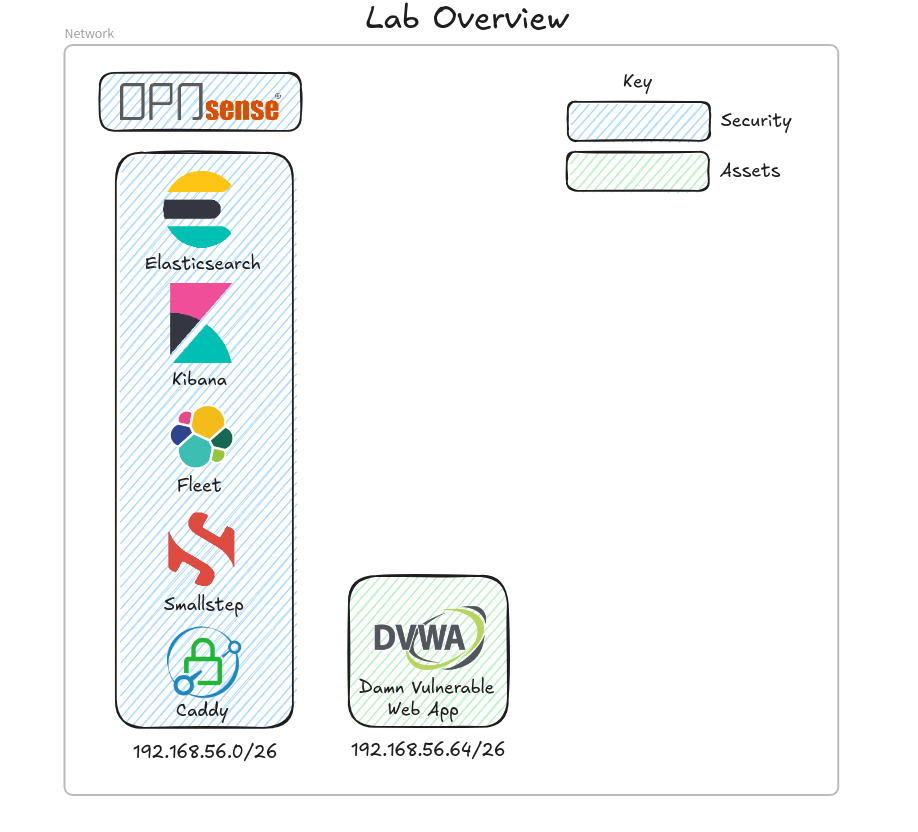
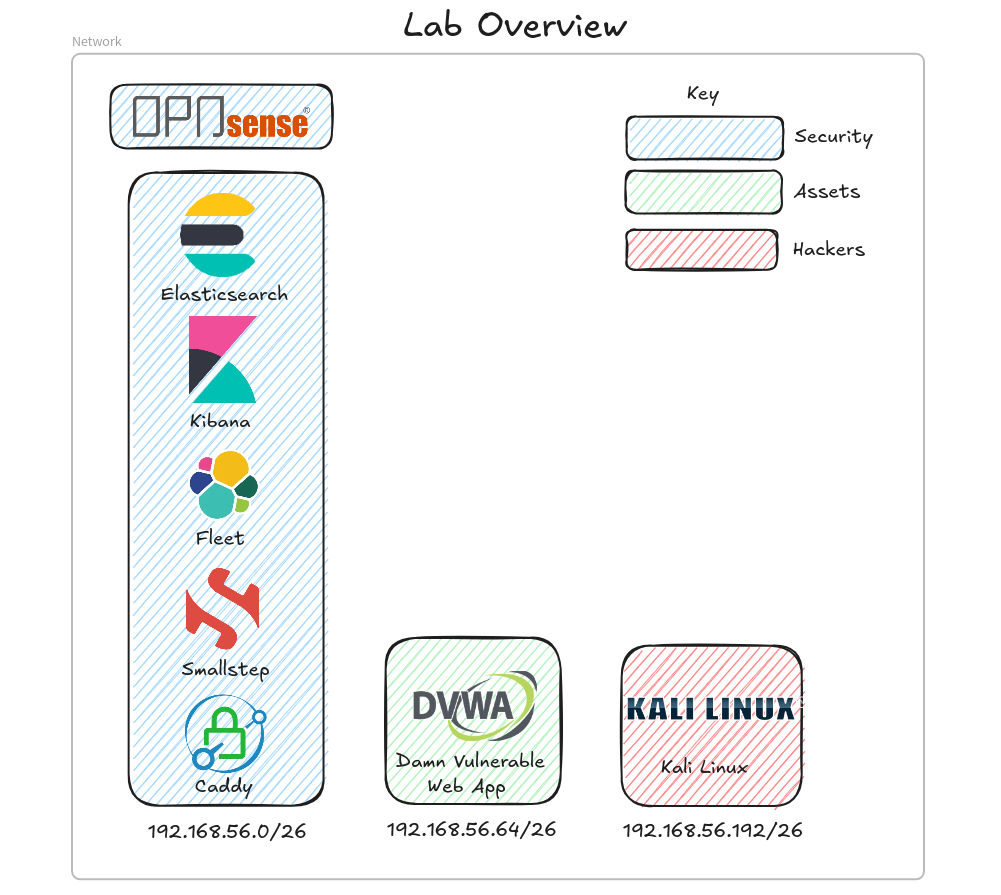
update readme for clarification

diff --git a/README.md b/README.md
@@ -3,8 +3,9 @@ Tartarus (renamed from AtomicFireFly), is designed to automate the process of de
 
 ## Requirements (host)
 ### Hardware
+**N.B.** Modern CPUs have virtual cores so if your CPU has 4 cores then it will have 8 vCPU cores. The below tabes all represent vCPU cores required by the VMs.  
 #### SIEM only
-The default deployment `vagrant up` will deploy only the Elastic SIEM and Opnsense firewall for testing.  
+The default deployment `vagrant up` will deploy only the Elastic SIEM and Opnsense firewall for testing. Can also be deployed with `HOSTS=elastic vagrant up opnsense elastic`.  
 | VM Name               | CPU Cores | Memory (MB) | Private IP     |
 |-----------------------|-----------|-------------|----------------|
 | tartarus-opnsense     | 2         | 1024        | 192.168.56.2   |
@@ -14,9 +15,59 @@ The default deployment `vagrant up` will deploy only the Elastic SIEM and Opnsen
 RAM: 9GB  
 CPU: 6
 
+##### Access SIEM
+To access you're newly created SIEM and firewall first add their DNS records to your hosts, `hosts` file  
+
+###### Windows
+Open `powershell` and run it in administrator mode (in the start bar type `powershell` and right click the icon and select run as administrator)  
+Now run this command `Add-Content 'C:\Windows\System32\Drivers\etc\hosts' "127.0.0.1 tartarus-elastic.home.arpa"` you can verify access with `Invoke-WebRequest -Uri "https://tartarus-elastic.home.arpa:5443" -SkipCertificateCheck` or just open `https://tartarus-elastic.home.arpa:5443` in your web browser.  
+
+If you want to access the Elastic guest use `vagrant ssh elastic`.
+
+###### Linux
+Open a `terminal` and type the following `sudo bash -c "echo '127.0.0.1 tartarus-elastic.home.arpa' >> /etc/hosts"` to add the DNS entry to your systems host file.  
+Verify access with a little `curl -L -k https://tartarus-elastic.home.arpa:5443` or access `https://tartarus-elastic.home.arpa:5443` in your web browser.  
+
+###### Expected Result
+**Web**  
+
+![Elastic_Access_Web](images/ElasticAccessWeb.png "Elastic access web")  
+
+**N.B.** If you see a warning about self signed certs you have two options:
+- Ignore the warning  
+- (prefered) add the `root_ca.crt` certificate to your browsers trust store. If you don't know how search for "how to add a root certificate to Chrome, Firefox, Brave, Egde..." and add the file `certs/root_ca.crt` to the trust store.  
+
+**SSH**  
+
+![Elastic_Access_SSH](images/ElasticAccessSSH.png "Elastic access SSH")  
+
+##### Access Firewall
+To access the newly created Opnsense firewall first add the DNS record to your hosts, `hosts` file  
+
+###### Windows
+Open `powershell` and run it in administrator mode (in the start bar type `powershell` and right click the icon and select run as administrator)  
+Now run this command `Add-Content 'C:\Windows\System32\Drivers\etc\hosts' "127.0.0.1 tartarus-opnsense.home.arpa"` you can verify access with `Invoke-WebRequest -Uri "https://tartarus-opnsense.home.arpa:8443" -SkipCertificateCheck` or just open `https://tartarus-opnsense.home.arpa:8443` in your web browser. N.B. you will get a self signed cert warning that will remain for the firewall due to all cert creation happening on the SIEM (which is started after the firewall).
+
+###### Linux
+Open a `terminal` and type the following `sudo bash -c "echo '127.0.0.1 tartarus-opnsense.home.arpa' >> /etc/hosts"` to add the DNS entry to your systems host file.  
+Verify access with a little `curl -L -k https://tartarus-opnsense.home.arpa:8443` or access `https://tartarus-opnsense.home.arpa:8443` in your web browser.  
+
+###### Expected Result
+**Web**  
+
+![Opnsense_Access_Web](images/OpnsenseAccessWeb.png "Opnsense Access Web")  
+
+**N.B.** If you see a warning about self signed certs you in this case you'll have to accept the warning, the firewall certs are independent of the Elastic certs.  
+
+**SSH**  
+
+![Opnsense_Access_SSH](images/OpnsenseAccessSSH.png "Opnsense Access SSH")  
+
+**N.B.** You'll need to `sudo su -` to get to the options menu.  
+
 ##### Diagram
 
-![Elastic_Diagram_1](images/elasticdiagram1.png "Example 1 Simple SIEM")
+![Elastic_Diagram_1](images/elasticdiagram1.png "Example 1 Simple SIEM")  
 
 #### SIEM + Linux
 Deploy with `HOSTS=linux vagrant up opnsense elastic linux` will deploy the SIEM, firewall and a Linux host.  
@@ -30,9 +81,16 @@ Deploy with `HOSTS=linux vagrant up opnsense elastic linux` will deploy the SIEM
 RAM: 11GB  
 CPU: 7  
 
+##### Access Linux
+Complete DNS settings from the above example.  
+
+**SSH**  
+
+![Linux_Access_SSH](images/LinuxAccessSSH.png "Linux Access SSH")  
+
 ##### Diagram
 
-![Elastic_Diagram_2](images/elasticdiagram2.png "Example 2 Simple SIEM with Linux asset")
+![Elastic_Diagram_2](images/elasticdiagram2.png "Example 2 Simple SIEM with Linux asset")  
 
 #### SIEM + Windows
 Deploy with `HOSTS=windows vagrant up opnsense elastic windows` will deploy the SIEM, firewall and a Windows host.  
@@ -40,15 +98,29 @@ Deploy with `HOSTS=windows vagrant up opnsense elastic windows` will deploy the 
 |-----------------------|-----------|-------------|----------------|
 | tartarus-opnsense     | 2         | 1024        | 192.168.56.2   |
 | tartarus-elastic      | 4         | 8192        | 192.168.56.10  |
-| tartarus-linux        | 1         | 4096        | 192.168.56.80  |
+| tartarus-windows      | 2         | 4096        | 192.168.56.80  |
 
 ##### Total
 RAM: 13GB  
-CPU: 7  
+CPU: 8  
+
+##### Access Windows
+Complete DNS settings from the top example.  
+
+**SSH**  
+
+![Windows_Access_SSH](images/WindowsAccessSSH.png "Windows Access SSH")  
+
+**RDP**  
+
+![Windows_Access_RDP](images/WindowsAccessRDP.png "Windows Access RDP")  
+
+**N.B.** You will need `xfreerdp` installed if you are running Linux `xfreerdp /u:"vagrant" /p:"vagrant" /v:127.0.0.1:53389 /size:1300x700 /cert:ignore`  
+On Windows you can use the built in RDP client.  
 
 ##### Diagram
 
-![Elastic_Diagram_3](images/elasticdiagram3.png "Example 3 Simple SIEM with Windows asset")
+![Elastic_Diagram_3](images/elasticdiagram3.png "Example 3 Simple SIEM with Windows asset")  
 
 #### SIEM + Linux + Windows
 Deploy with `HOSTS=linwin vagrant up opnsense elastic linux windows` will deploy the SIEM, firewall, Linux and Windows.  
@@ -56,33 +128,72 @@ Deploy with `HOSTS=linwin vagrant up opnsense elastic linux windows` will deploy
 |-----------------------|-----------|-------------|----------------|
 | tartarus-opnsense     | 2         | 1024        | 192.168.56.2   |
 | tartarus-elastic      | 4         | 8192        | 192.168.56.10  |
-| tartarus-linux        | 2         | 2048        | 192.168.56.70  |
-| tartarus-linux        | 1         | 4096        | 192.168.56.80  |
+| tartarus-windows      | 1         | 2048        | 192.168.56.70  |
+| tartarus-linux        | 2         | 4096        | 192.168.56.80  |
 
 ##### Total
 RAM: 15GB  
 CPU: 9  
 
+##### Access
+Follow the guides above for access to any of the guests.  
+
 ##### Diagram
 
-![Elastic_Diagram_4](images/elasticdiagram4.png "Example 4 Simple SIEM with Linux and Windows asset")
+![Elastic_Diagram_4](images/elasticdiagram4.png "Example 4 Simple SIEM with Linux and Windows asset")  
 
-#### SIEM + Damn Vulnerable Web Application
-Deploy with `HOSTS=dvwa vagrant up opnsense elastic dvwa` will deploy the SEIM, firewall and the DVWA.
-Although we expose the default port `80` that the DVWA is served on to the host machine at `http://127.0.0.1:8080` it's advised to deploy the Kali host to attack the DVWA as it will have more of the tools you'll need pre-installed.
+#### SIEM + Damn Vulnerable Web Application + Kali
+Deploy with `HOSTS=dvwa vagrant up opnsense elastic dvwa kali` will deploy the SEIM, firewall, the DVWA and Kali.
+Although we expose the default port `80` that the DVWA is served on to the host machine at `http://127.0.0.1:8180` it's advised to deploy the Kali host to attack the DVWA as it will have more of the tools you'll need pre-installed.
 | VM Name               | CPU Cores | Memory (MB) | Private IP     |
 |-----------------------|-----------|-------------|----------------|
 | tartarus-opnsense     | 2         | 1024        | 192.168.56.2   |
 | tartarus-elastic      | 4         | 8192        | 192.168.56.10  |
 | tartarus-dvwa         | 1         | 2048        | 192.168.56.71  |
+| tartarus-kali         | 4         | 8192        | 192.168.56.200 |
 
 ##### Total
-RAM: 11GB  
+**Recommended**
+RAM: 19GB  
+CPU: 11  
+
+**Passable**  
+RAM: 13GB
 CPU: 7  
+
+##### Access Kali  
+
+**GUI**  
+
+**N.B.** The Kali host has the GUI enabled so it should pop up with the GUI whenever you boot the machine.
+**N.B. 2** If 8GB of RAM is too much for your host to handle you can reduce the amount of memory Kali gets by changing the line `v.customize ["modifyvm", :id, "--memory", 8192]` near the bottom of the `Vagrantfile` to something like `v.customize ["modifyvm", :id, "--memory", 4096]` this will reduce the RAM by half, anything lower and the machine may become unstable. You can do the same for Elastic down to 6GB although it is not recommended! From `v.customize ["modifyvm", :id, "--memory", 8192]` to `v.customize ["modifyvm", :id, "--memory", 6144]` in the elastic part of the `Vagrantfile`. The same can be done to the CPUs each VM gets.  
+
+![Kali_Access_GUI](images/KaliAccessGUI.png "Kali Access GUI")  
+
+**N.B.** Login with:  
+`username: vagrant`  
+`password: vagrant`  
+You may need to login twice.  
+
+**SSH**  
+
+![Kali_Access_SSH](images/KaliAccessSSH.png "Kali Access SSH")  
+
+##### Access Damn Vulnerable Web Application  
+
+**Web**  
+
+**N.B.** It is recommended to access the DVWA from within the Kali VM!  
+
+Fist add the DNS entry to the Kali VM's hosts file with `sudo bash -c "echo '192.168.56.71 tartarus-dvwa.home.arpa' >> /etc/hosts"` sudo password is `vagrant`  
+
+Open firefox and browse to `http://tartarus-dvwa.home.arpa/DVWA`  
+
+![DVWA_Access_Web](images/DVWAAccessWeb.png "DVWA Access Web")  
 
 ##### Diagram
 
-![Elastic_Diagram_5](images/elasticdiagram5.png "Example 5 Simple SIEM with DVWA")
+![Elastic_Diagram_5](images/elasticdiagram5.png "Example 5 Simple SIEM with DVWA")  
 
 ### Software
 [VirtualBox](https://www.virtualbox.org/wiki/Downloads)  
@@ -97,7 +208,7 @@ CPU: 7
 | tartarus-linux        | bento/rockylinux-8.7                 | 1         | 2048        | 192.168.56.70  | Elastic Agent                                                     |
 | tartarus-dvwa         | bento/ubuntu                         | 1         | 2048        | 192.168.56.71  | Elastic Agent, DVWA                                               |
 | tartarus-windows      | gusztavvargadr/windows-10-21h2-enterprise | 2    | 4096        | 192.168.56.80  | Elastic Agent, Sysmon, Atomic Red Team                            |
-| tartarus-kali         | kalilinux/rolling                    | 2         | 4096        | 192.168.56.200 |                                                                   |
+| tartarus-kali         | kalilinux/rolling                    | 4         | 8192        | 192.168.56.200 |                                                                   |
 
 
 ### IP Addresses 
@@ -169,7 +280,7 @@ Linux Bash
 `echo "(Vagrant host ip) tartarus-elastic.home.arpa" >> /etc/hosts`  
 
 ## Opnsense  
-Once Opnsnese finishes installing you can log in by going to `https://127.0.0.1:8443`. All the config is already done for you.  
+Once Opnsnese finishes installing you can log in by going to `https://127.0.0.1:8443` or `https://tartarus-opnsense.home.arpa:8443` if you've updated your hosts, `hosts` file. All the config is already done for you.  
 
 ## Kibana  
 It is safe to ignore the HTTPS certificate warning as we generated our own self-signed certs in this instance.  
@@ -186,6 +297,20 @@ Username: `elastic`
 You can save the password in a file called "Password.txt" in the directory you ran Vagrant from, this is the password to the Superuser account so be careful!  
 The file is in `.gitignore` however it's not good practice to save passwords to disk!  
 The password is also printed to the terminal / shell you ran `vagrant up` from.  
+If you need to reset the password you can do it on the `elastic` node with a little:
+**Linux**  
+```bash
+vagrant ssh elastic
+sudo /usr/share/elasticsearch/bin/elasticsearch-reset-password -u elastic
+exit
+```  
+
+**Windows**
+```powershell
+vagrant ssh elastic
+sudo /usr/share/elasticsearch/bin/elasticsearch-reset-password -u elastic
+exit
+```
 
 ## Viewing Kibana Alerts
 Once you have logged into the Kibana instance on `https://tartarus-elastic.home.arpa:5443` now it is time to view the alerts.  
